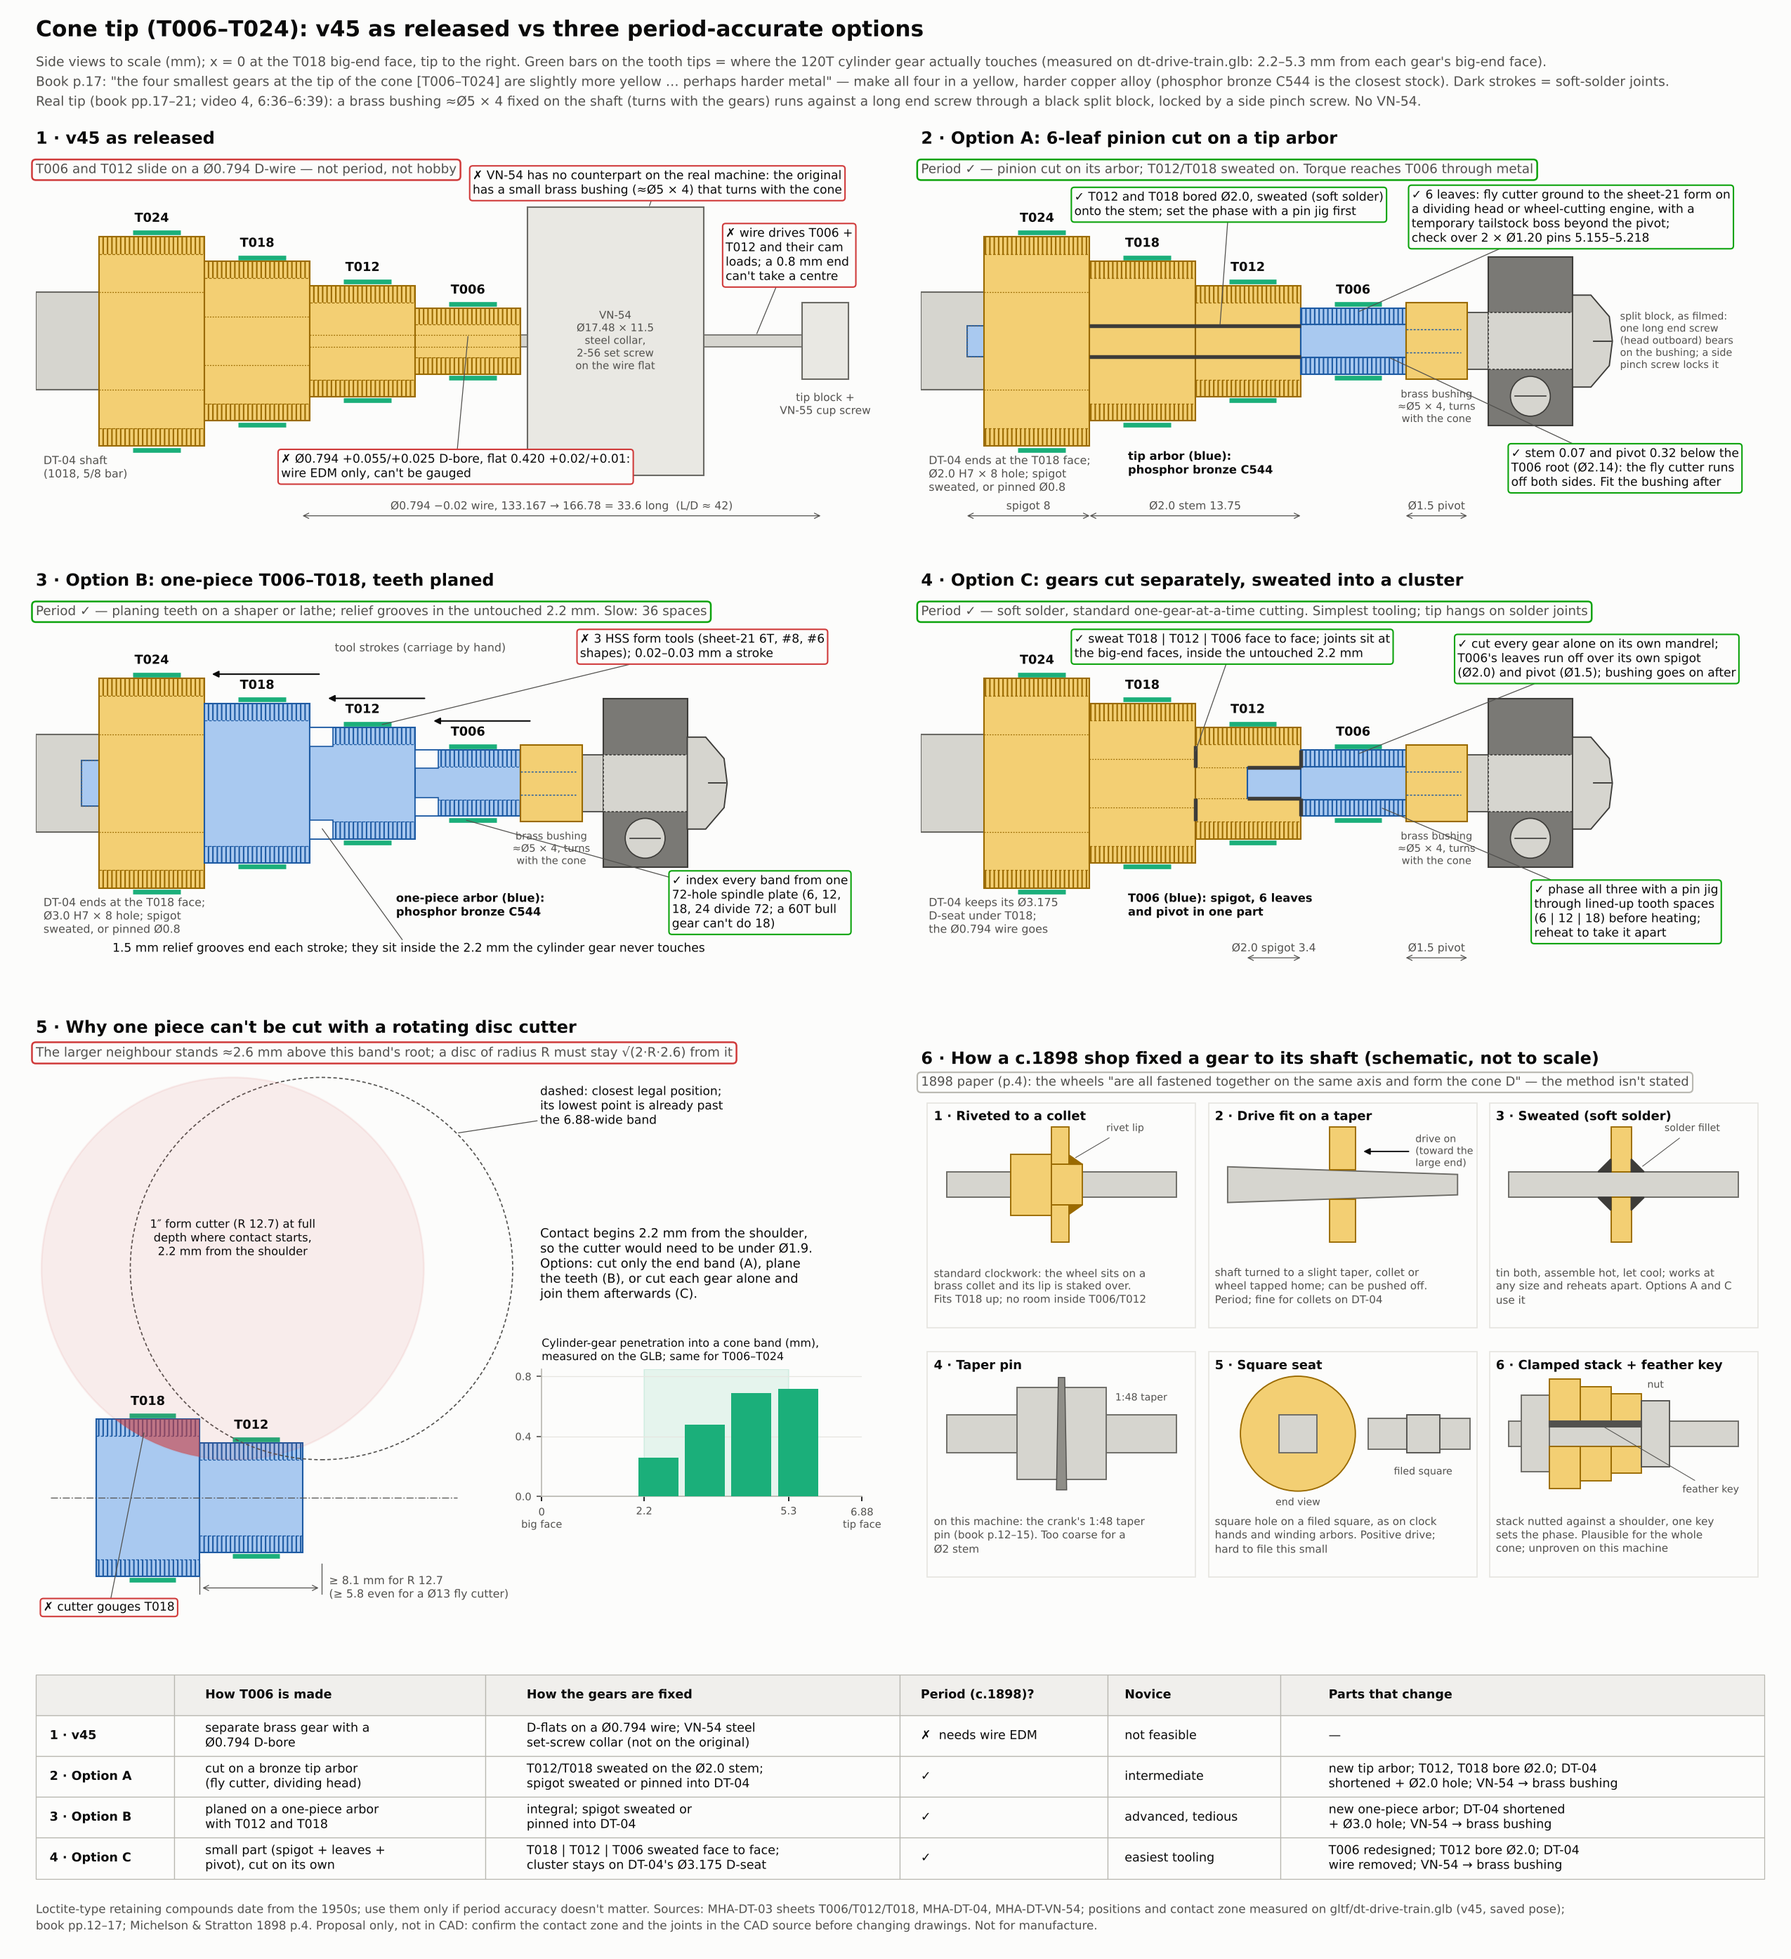
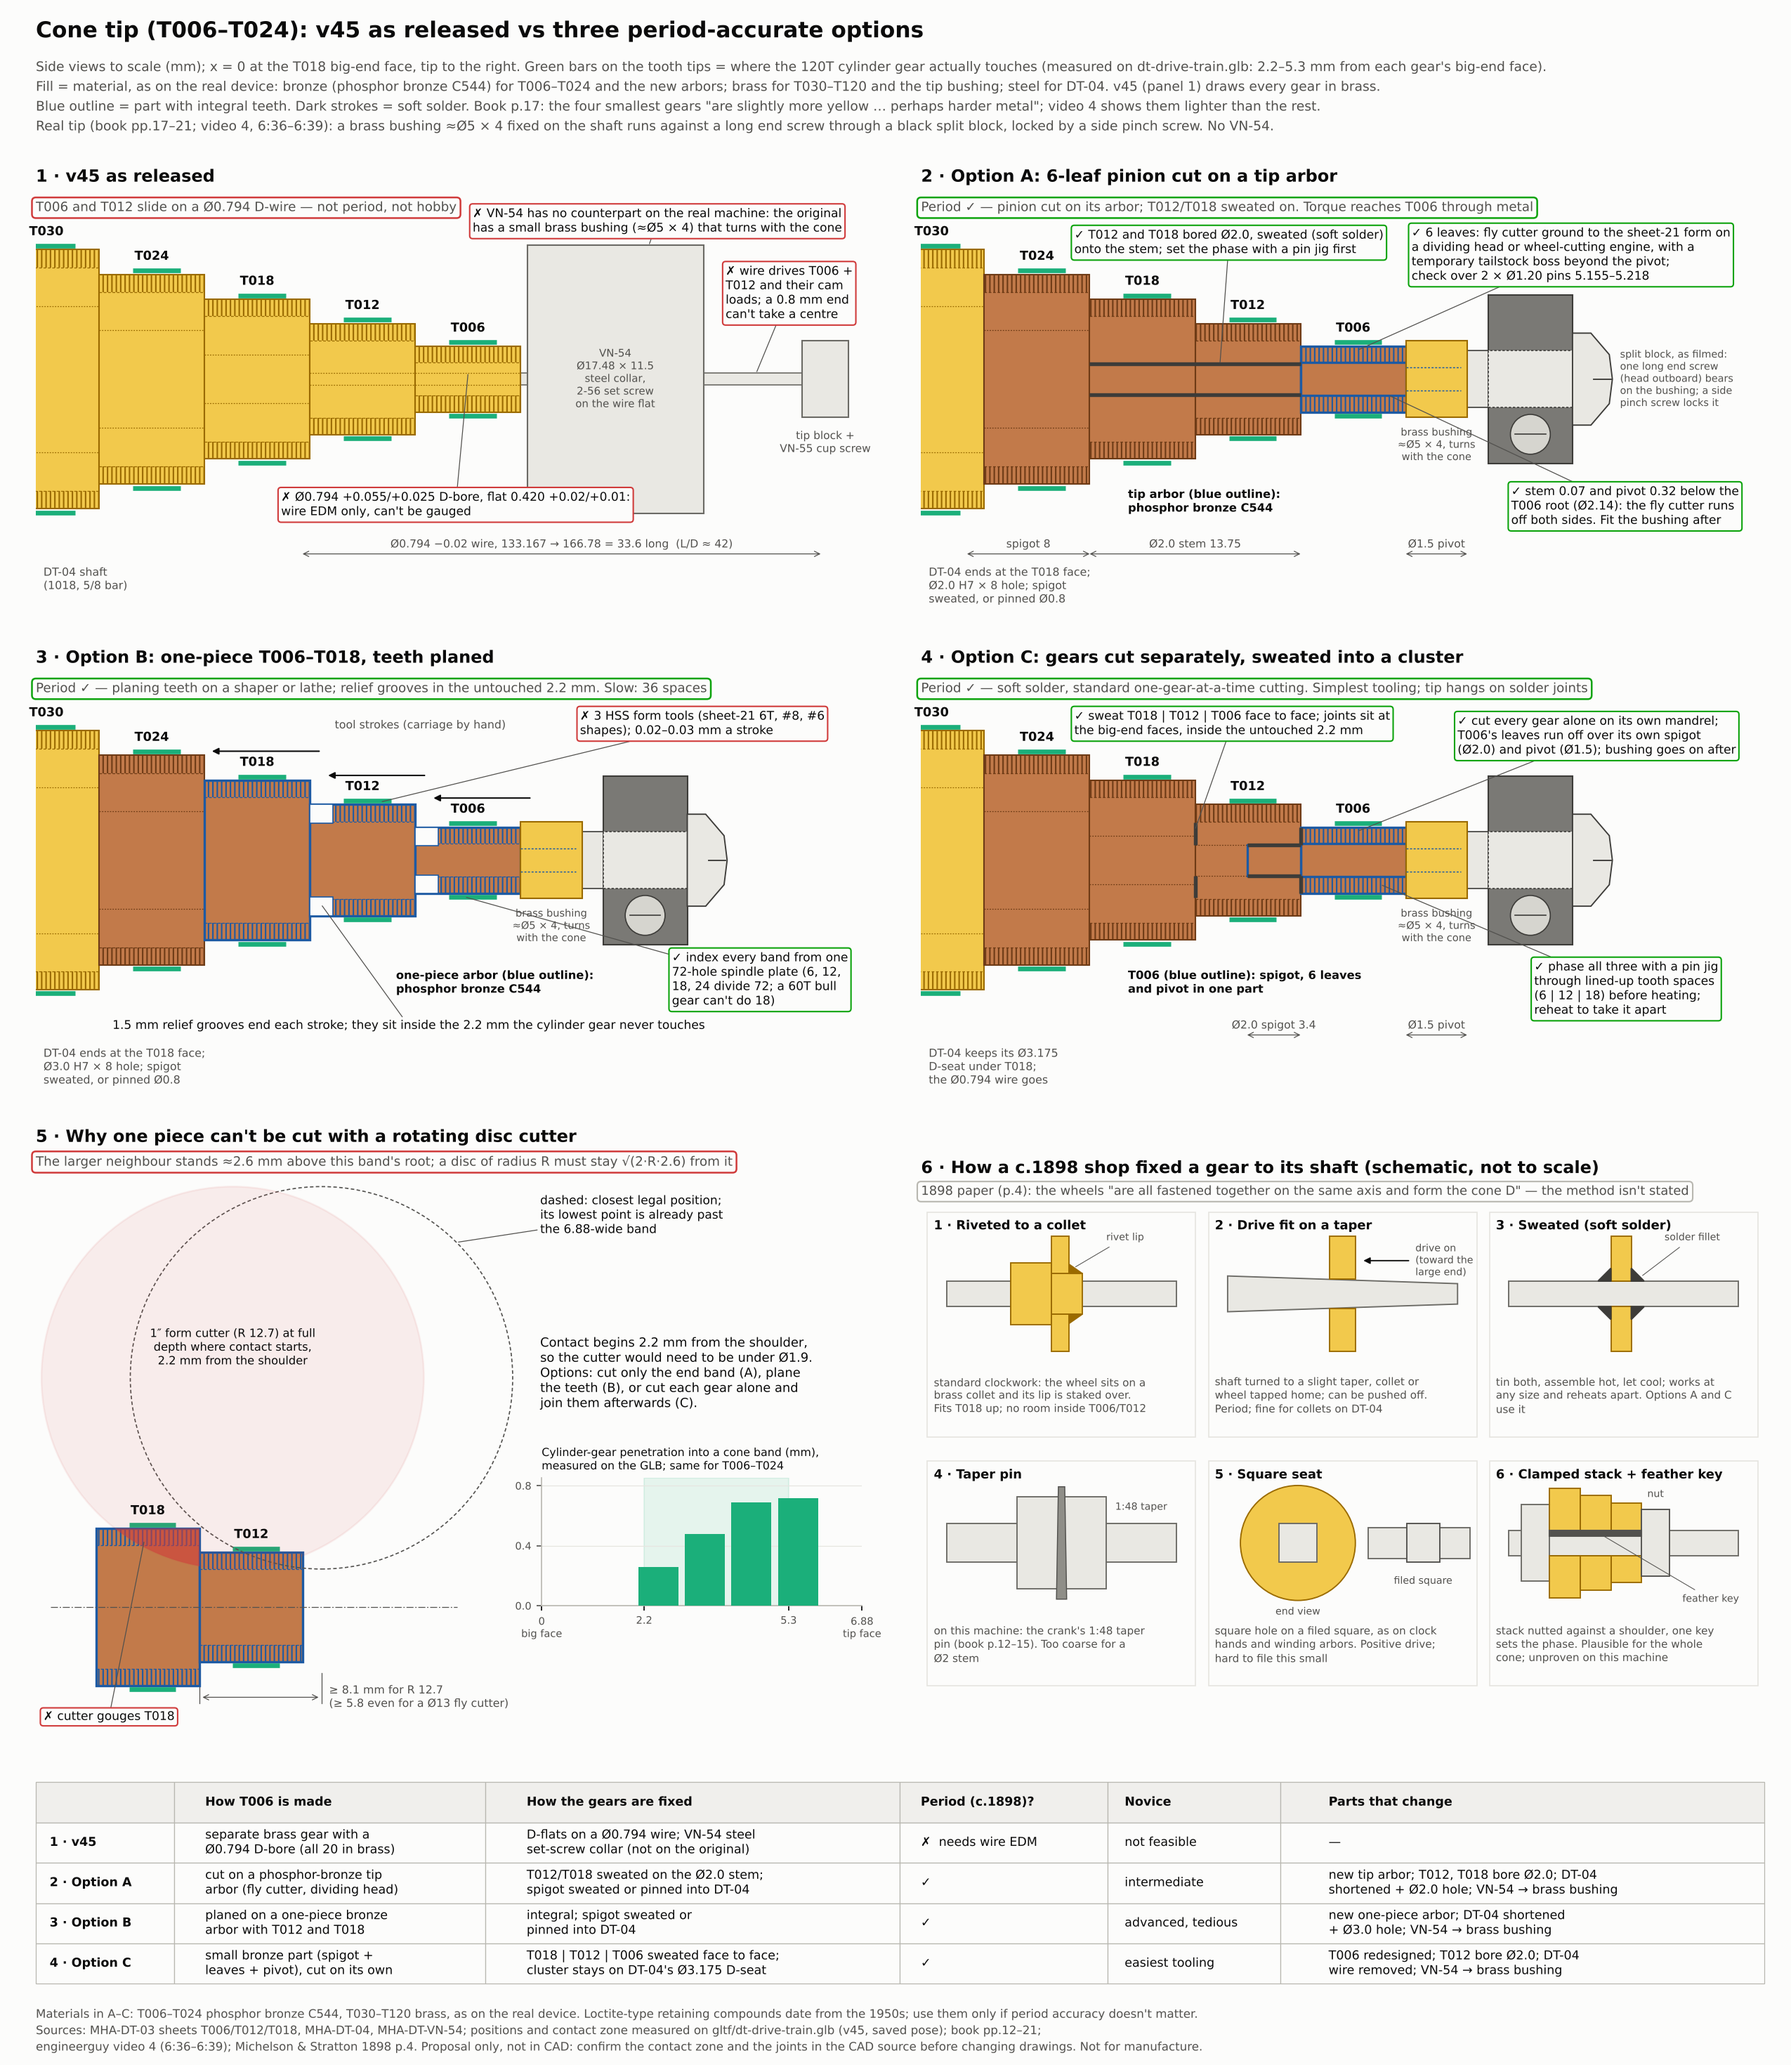
research: cone-tip options use bronze T006-T024, brass T030 onward
Match the real device: the four smallest cone gears (book: "more
yellow ... perhaps harder metal"; lighter in video 4) and every new
tip part are phosphor bronze C544; T030-T120 stay brass.

- Section 7, recommendation 1 and the dt-cone-gear material note say
  so explicitly.
- Sketch: fill now encodes material (bronze, brass, steel), a blue
  outline marks parts with integral teeth, and a brass T030 band shows
  where the material changes. v45 (panel 1) stays all brass, as drawn.

Claude-Session: https://claude.ai/code/session_01BtxwQxpMCrb1hsP44NXY8R

diff --git a/research/3-detailed-design/drive-train-v45-review.md b/research/3-detailed-design/drive-train-v45-review.md
@@ -279,8 +279,10 @@ Severity: **BLOCKER** (can't be made or will not work as drawn), **MAJOR**, **MI
   - **MAJOR [V/I]** Edge contact from the 13° skew means one face edge of each gear does the
     work. The sheets never say which face is the contact face. "DO NOT BREAK OR CHAMFER EDGES ON
     TOOTH FLANKS" conflicts with the title block's "REMOVE BURRS AND BREAK SHARP EDGES".
-  - **MAJOR [V]** "MATERIAL Brass" names no alloy. The book says T006–T024 look yellower and
-    harder than the rest.
+  - **MAJOR [V]** "MATERIAL Brass" names no alloy, and v45 draws all 20 gears in it. The book
+    says T006–T024 look yellower and harder than the rest, and video 4 shows them lighter.
+    Specify bronze (phosphor bronze C544) for T006–T024 and an alloyed brass (e.g. C360) for
+    T030–T120.
   - **NICE [I]** On Brown & Sharpe-pattern plates (15–49 holes), 96T, 102T and 114T have no
     simple index (40/N = 5/12, 20/51, 20/57). Add an indexing table that flags them.
 - `dt-cone-gear-shaft` (DT-04)
@@ -392,7 +394,8 @@ Severity: **BLOCKER** (can't be made or will not work as drawn), **MAJOR**, **MI
      with the cone and bears on a long end screw.
    - Pick one of the three period-accurate options: an integral 6-leaf pinion on a tip arbor,
      a one-piece planed arbor, or gears cut separately and sweated into a cluster.
-   - Make T006–T024 in a yellow, harder copper alloy (phosphor bronze C544).
+   - Make T006–T024 and any new tip arbor in bronze (phosphor bronze C544), and T030–T120 in
+     brass, to match the real device.
    - A one-piece T006–T018 can't be cut with a rotating cutter.
 2. **Offer an easier crank drive gear.** Allow a spur 64T that meshes obliquely like the cone
    gears, or a purchased gear, alongside the 13° helical.
@@ -461,6 +464,8 @@ of it is in CAD.
 ### Options
 
 All three are period-accurate (c.1898). All three:
+- make T006–T024 and every new tip part (arbor, one-piece arbor, T006 part) in bronze
+  (phosphor bronze C544), and keep T030–T120 in brass, to match the real device;
 - delete VN-54 and the Ø0.794 wire;
 - add the original's brass bushing, soft-soldered or driven onto the pivot after the teeth are
   cut, with its outer face square and smooth;
@@ -473,11 +478,14 @@ All three are period-accurate (c.1898). All three:
   - **Cutting T006.** The stem is 0.07 mm and the pivot 0.32 mm below the T006 root (Ø2.14),
     so a fly cutter ground to the sheet-21 form runs off both sides. Support the work with a
     temporary tailstock boss beyond the pivot.
-  - **T012 and T018.** Bore both Ø2.0 and soft-solder them onto the stem, setting the phase
-    with a pin jig first.
+  - **T012 and T018.** Make them separate bronze gears. Bore both Ø2.0 and soft-solder them
+    onto the stem, setting the phase with a pin jig first. T024 stays a separate bronze gear
+    on DT-04.
   - **Bushing.** Fit the brass bushing on the pivot after cutting.
   - **Drive.** T006's torque reaches it through metal.
 - **B · One-piece T006–T018 with planed teeth.**
+  - **Material.** Bronze arbor carrying T006, T012 and T018. T024 stays a separate bronze
+    gear.
   - **Method.** Plane the teeth (shaper, or the lathe used as one) with three HSS form tools.
     Each stroke ends in a 1.5 mm relief groove inside the untouched 2.2 mm.
   - **Indexing.** One 72-hole spindle plate indexes 6, 12, 18 and 24; a 60T bull gear can't
@@ -485,8 +493,9 @@ All three are period-accurate (c.1898). All three:
   - **Effort.** Slow: 36 tooth spaces.
 - **C · Gears cut separately, then sweated into a cluster.**
   - **Cutting.** Each gear is cut alone with ordinary setups.
-  - **T006.** It becomes one small part with a Ø2.0 spigot, the 6 leaves and the Ø1.5 pivot,
-    and its leaves run off over its own spigot and pivot.
+  - **T006.** It becomes one small bronze part with a Ø2.0 spigot, the 6 leaves and the Ø1.5
+    pivot, and its leaves run off over its own spigot and pivot. T012, T018 and T024 are
+    separate bronze gears.
   - **Joining.** T018, T012 and T006 are soft-soldered face to face. The joints sit at the
     big-end faces, in the untouched zone. Phase all three with a pin jig through lined-up
     tooth spaces; reheat to take the cluster apart.
